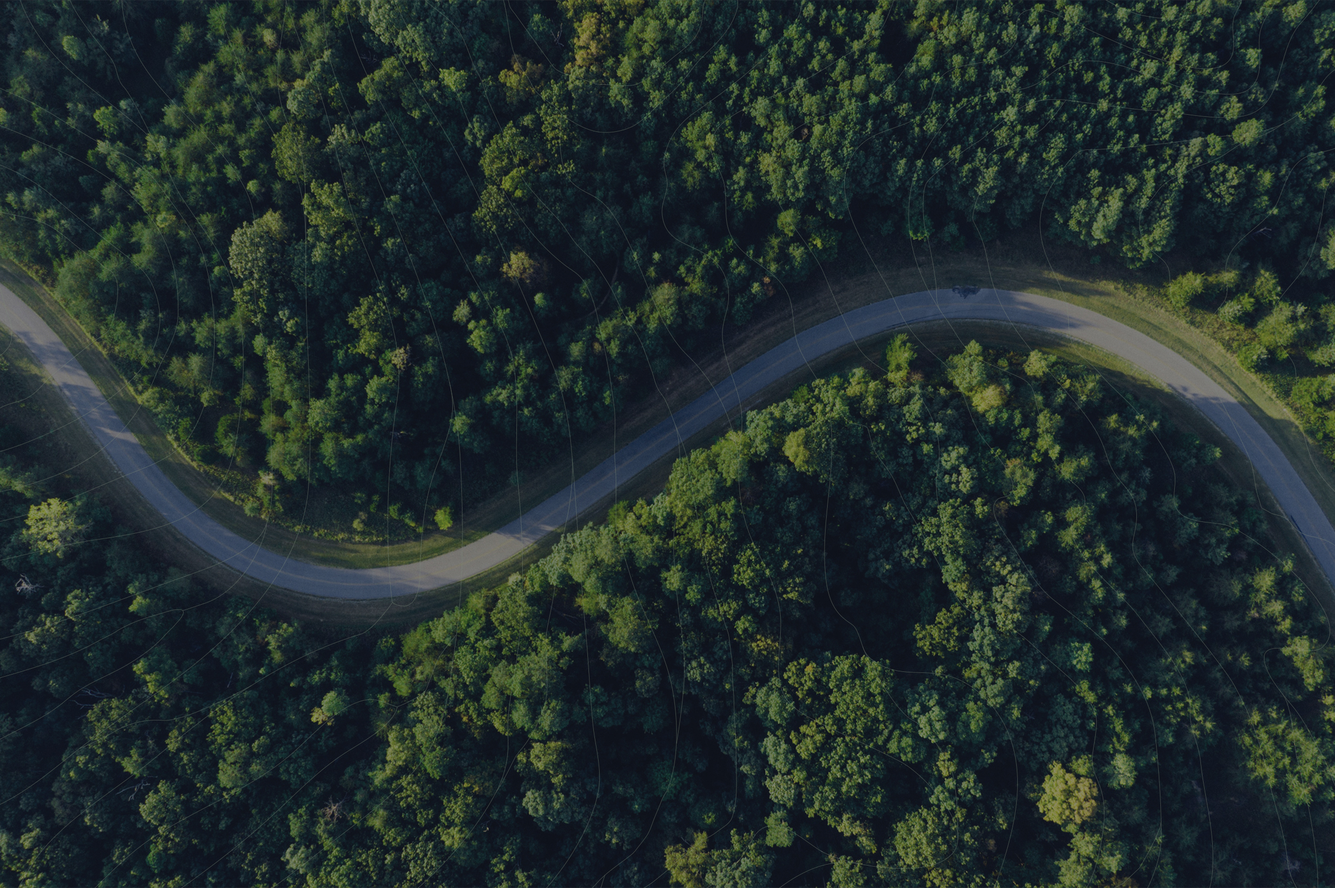
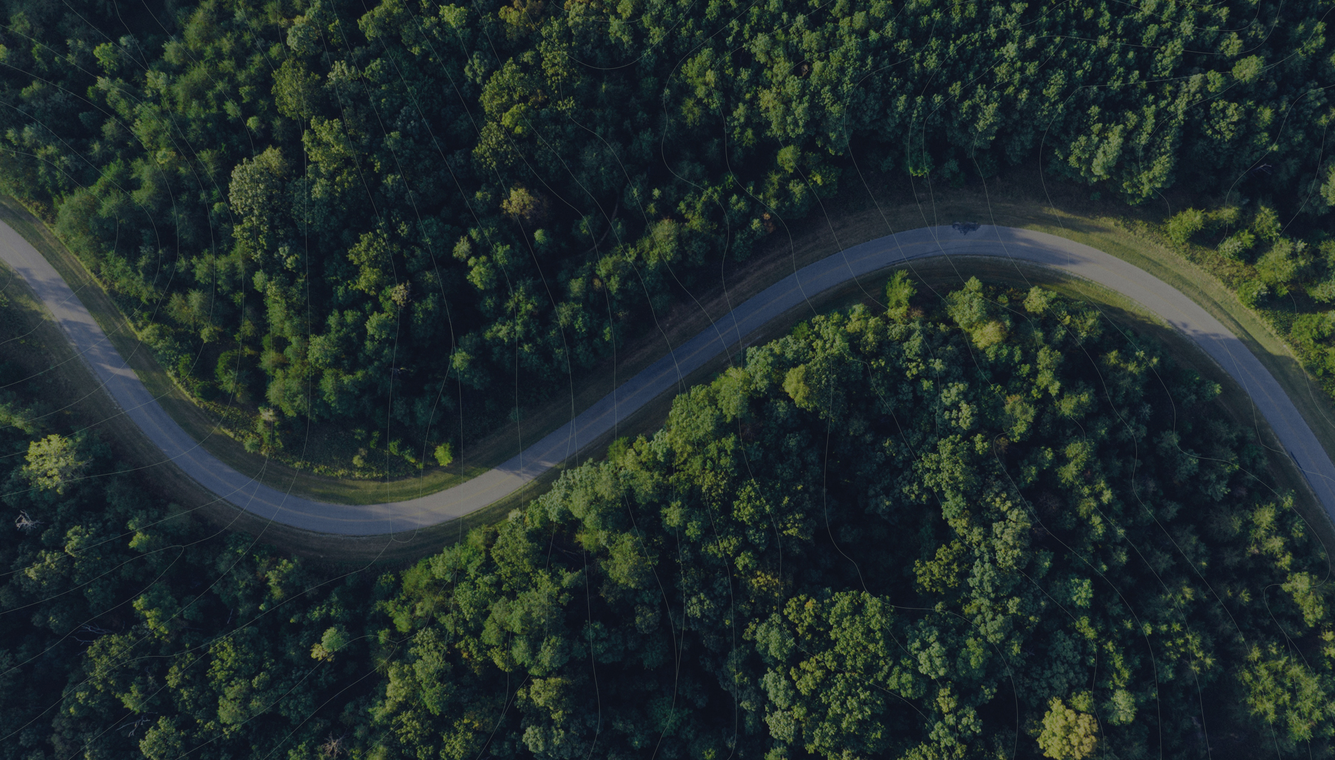
animation moving Preview + hover

diff --git a/src/components/Preview.js b/src/components/Preview.js
@@ -1,4 +1,5 @@
-import React, { useEffect } from "react";
+import { React, useRef, useEffect } from 'react';
+import { gsap } from "gsap";
 import imageOne from '../assets/works-preview/1.jpg'
 import imageTwo from '../assets/works-preview/2.jpg'
 import imageThree from '../assets/works-preview/3.jpg'
@@ -13,7 +14,11 @@ import './Preview.scss';
 
 const Preview = () => {
 
+    const imgRef = useRef();
+
     useEffect(() => {
+
+        gsap.from(imgRef.current, {delay: 3.6, transform: 'translate3d(0,20vh,0)', ease: "power1.out", duration: 1, opacity: 0});
 
         let itemClass   = 'image';
         let activeClass = 'active';
@@ -46,16 +51,18 @@ const Preview = () => {
     
     return (
         <a href="/">
-            <div className="img-container">
-                <img className="image active" src={imageOne} alt="work 1"/>
-                <img className ="image" src={imageTwo} alt="work 2"/>
-                <img className ="image" src={imageThree} alt="work 3"/>
-                <img className ="image" src={imageFour} alt="work 4"/>
-                <img className ="image" src={imageFive} alt="work 5"/>
-                <img className ="image" src={imageSix} alt="work 6"/>
-                <img className ="image" src={imageSeven} alt="work 7"/>
-                <img className ="image" src={imageHeight} alt="work 8"/>
-                <img className ="image" src={imageNine} alt="work 9"/>
+            <div className="img-container" ref={imgRef}>
+                <div className="transform-container">
+                    <img className="image active" src={imageOne} alt="work 1"/>
+                    <img className ="image" src={imageTwo} alt="work 2"/>
+                    <img className ="image" src={imageThree} alt="work 3"/>
+                    <img className ="image" src={imageFour} alt="work 4"/>
+                    <img className ="image" src={imageFive} alt="work 5"/>
+                    <img className ="image" src={imageSix} alt="work 6"/>
+                    <img className ="image" src={imageSeven} alt="work 7"/>
+                    <img className ="image" src={imageHeight} alt="work 8"/>
+                    <img className ="image" src={imageNine} alt="work 9"/>
+                </div>
             </div>
         </a>
     )

diff --git a/src/components/Preview.scss b/src/components/Preview.scss
@@ -15,6 +15,12 @@
     .img-container {
         padding-left: 50px;
         padding-right: 50px;
+        .transform-container {
+            transition: transform .3s;
+            &:hover {
+                transform: scale(0.96) !important;
+            }
+        }
         img {
             border-radius: 4px;
         }
